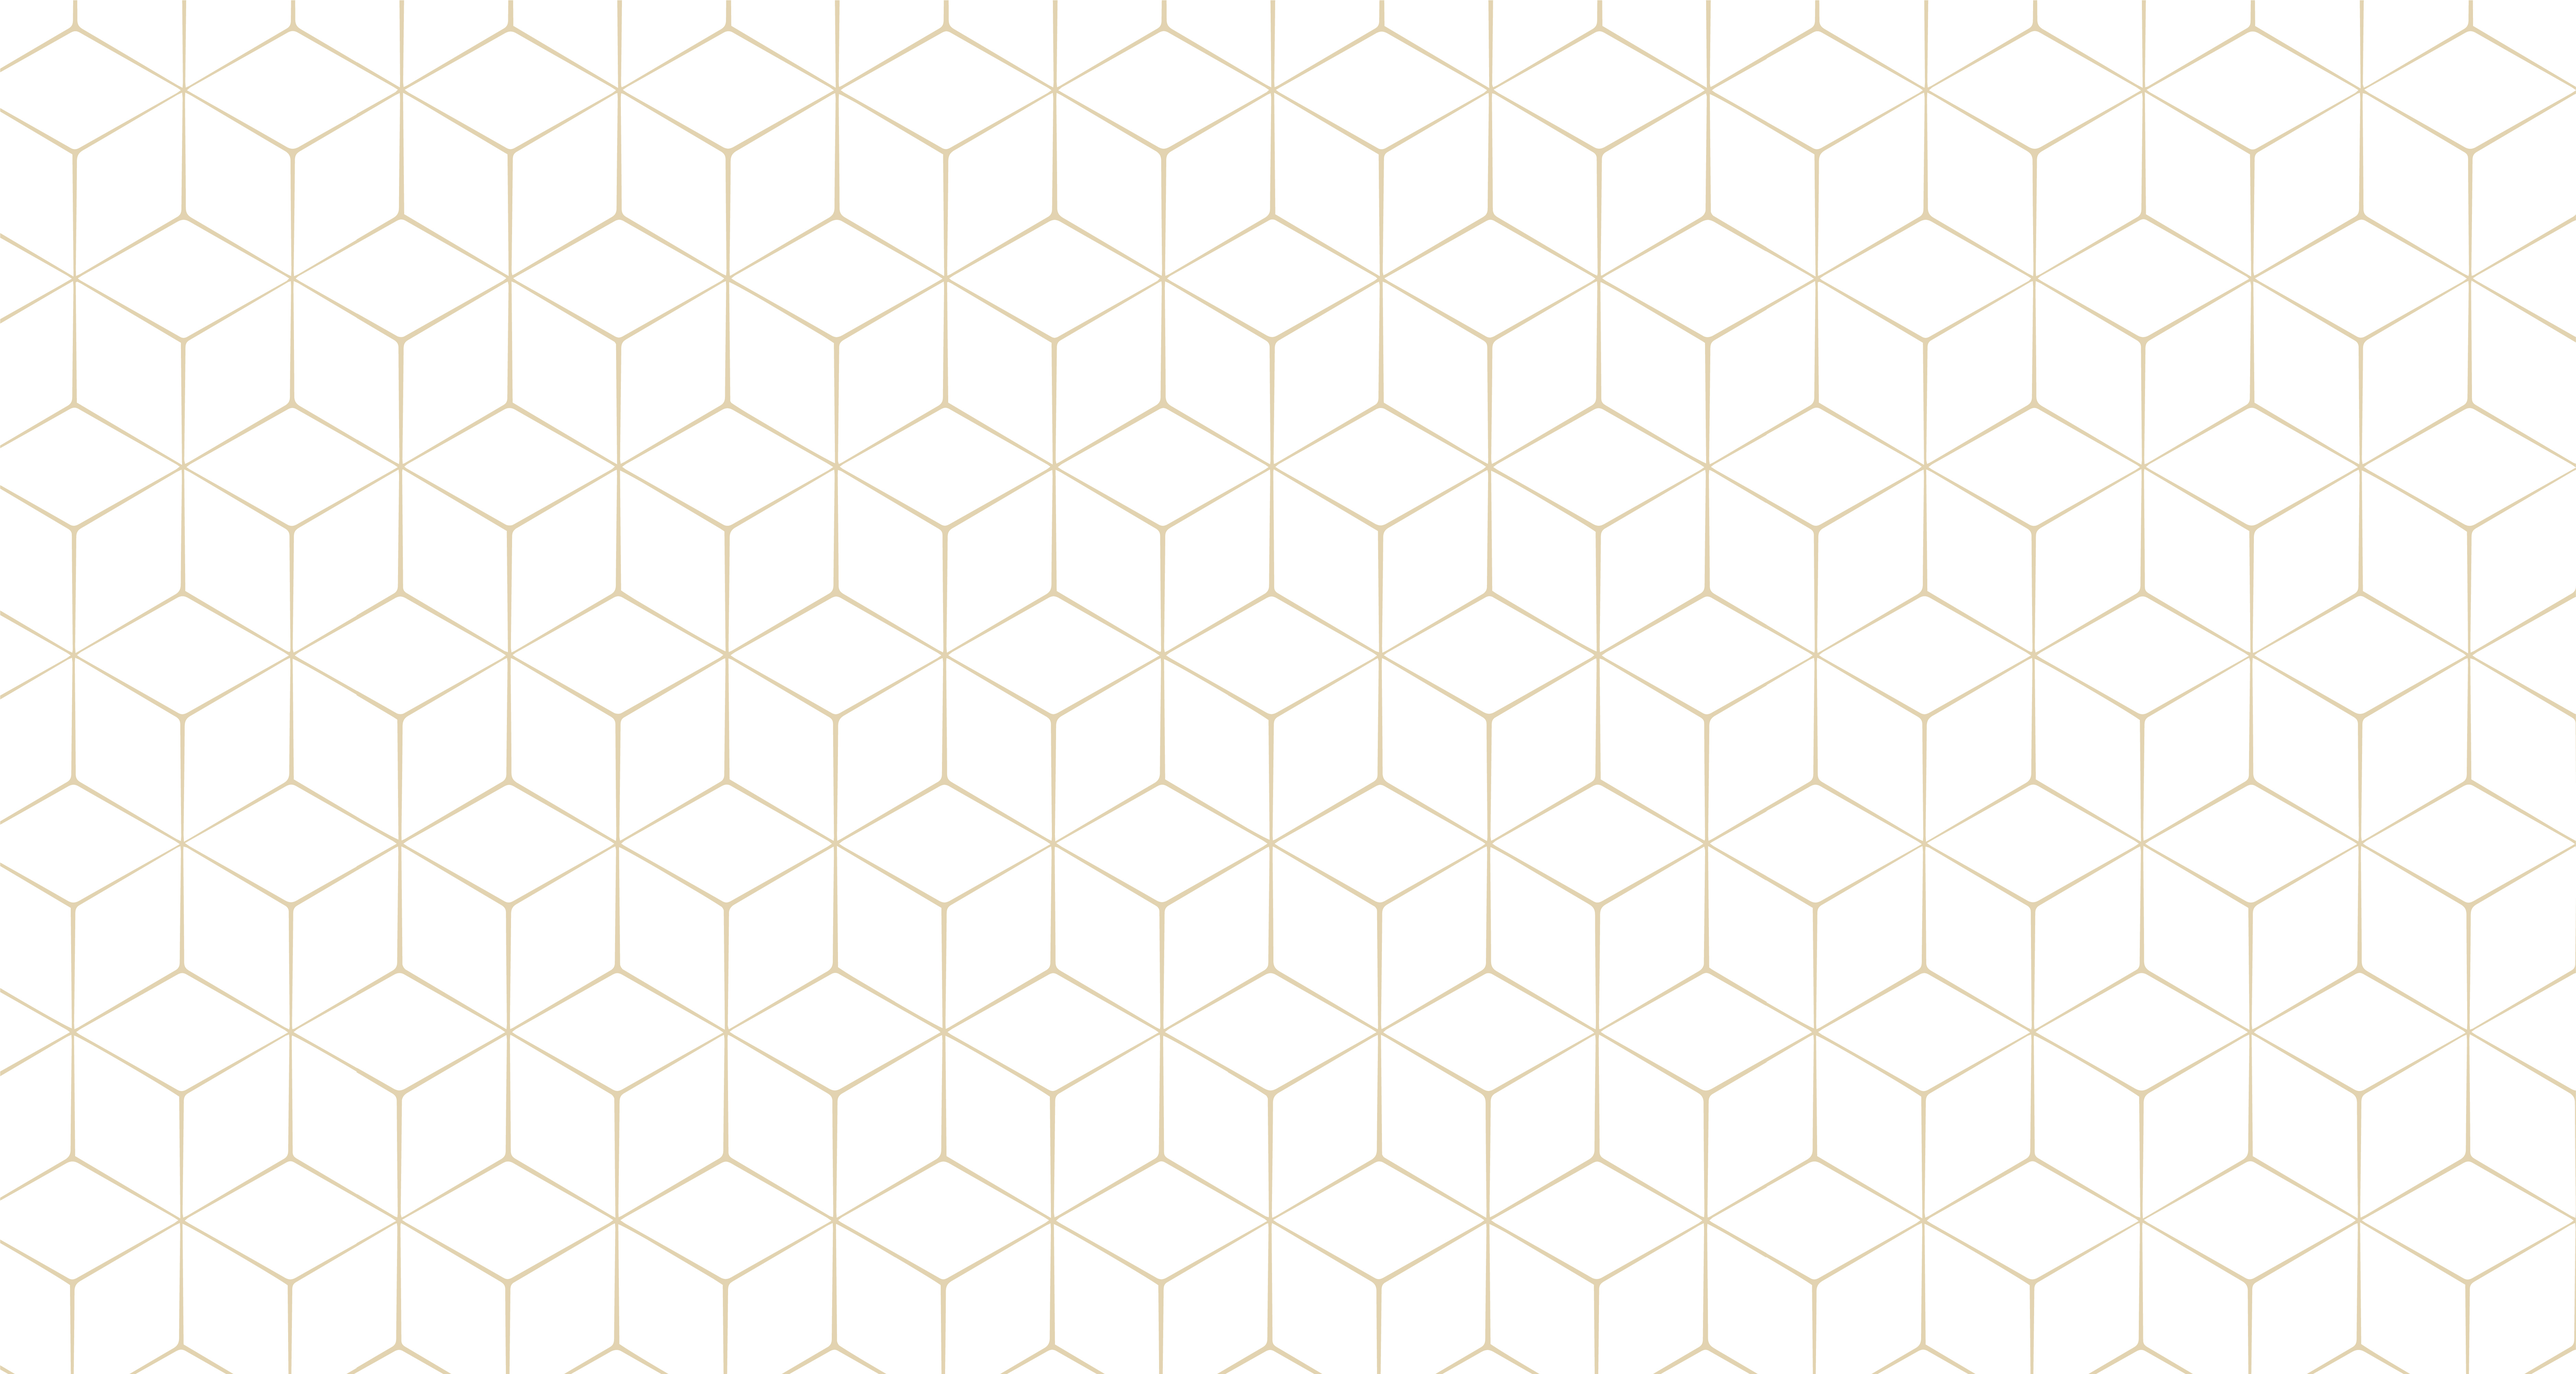
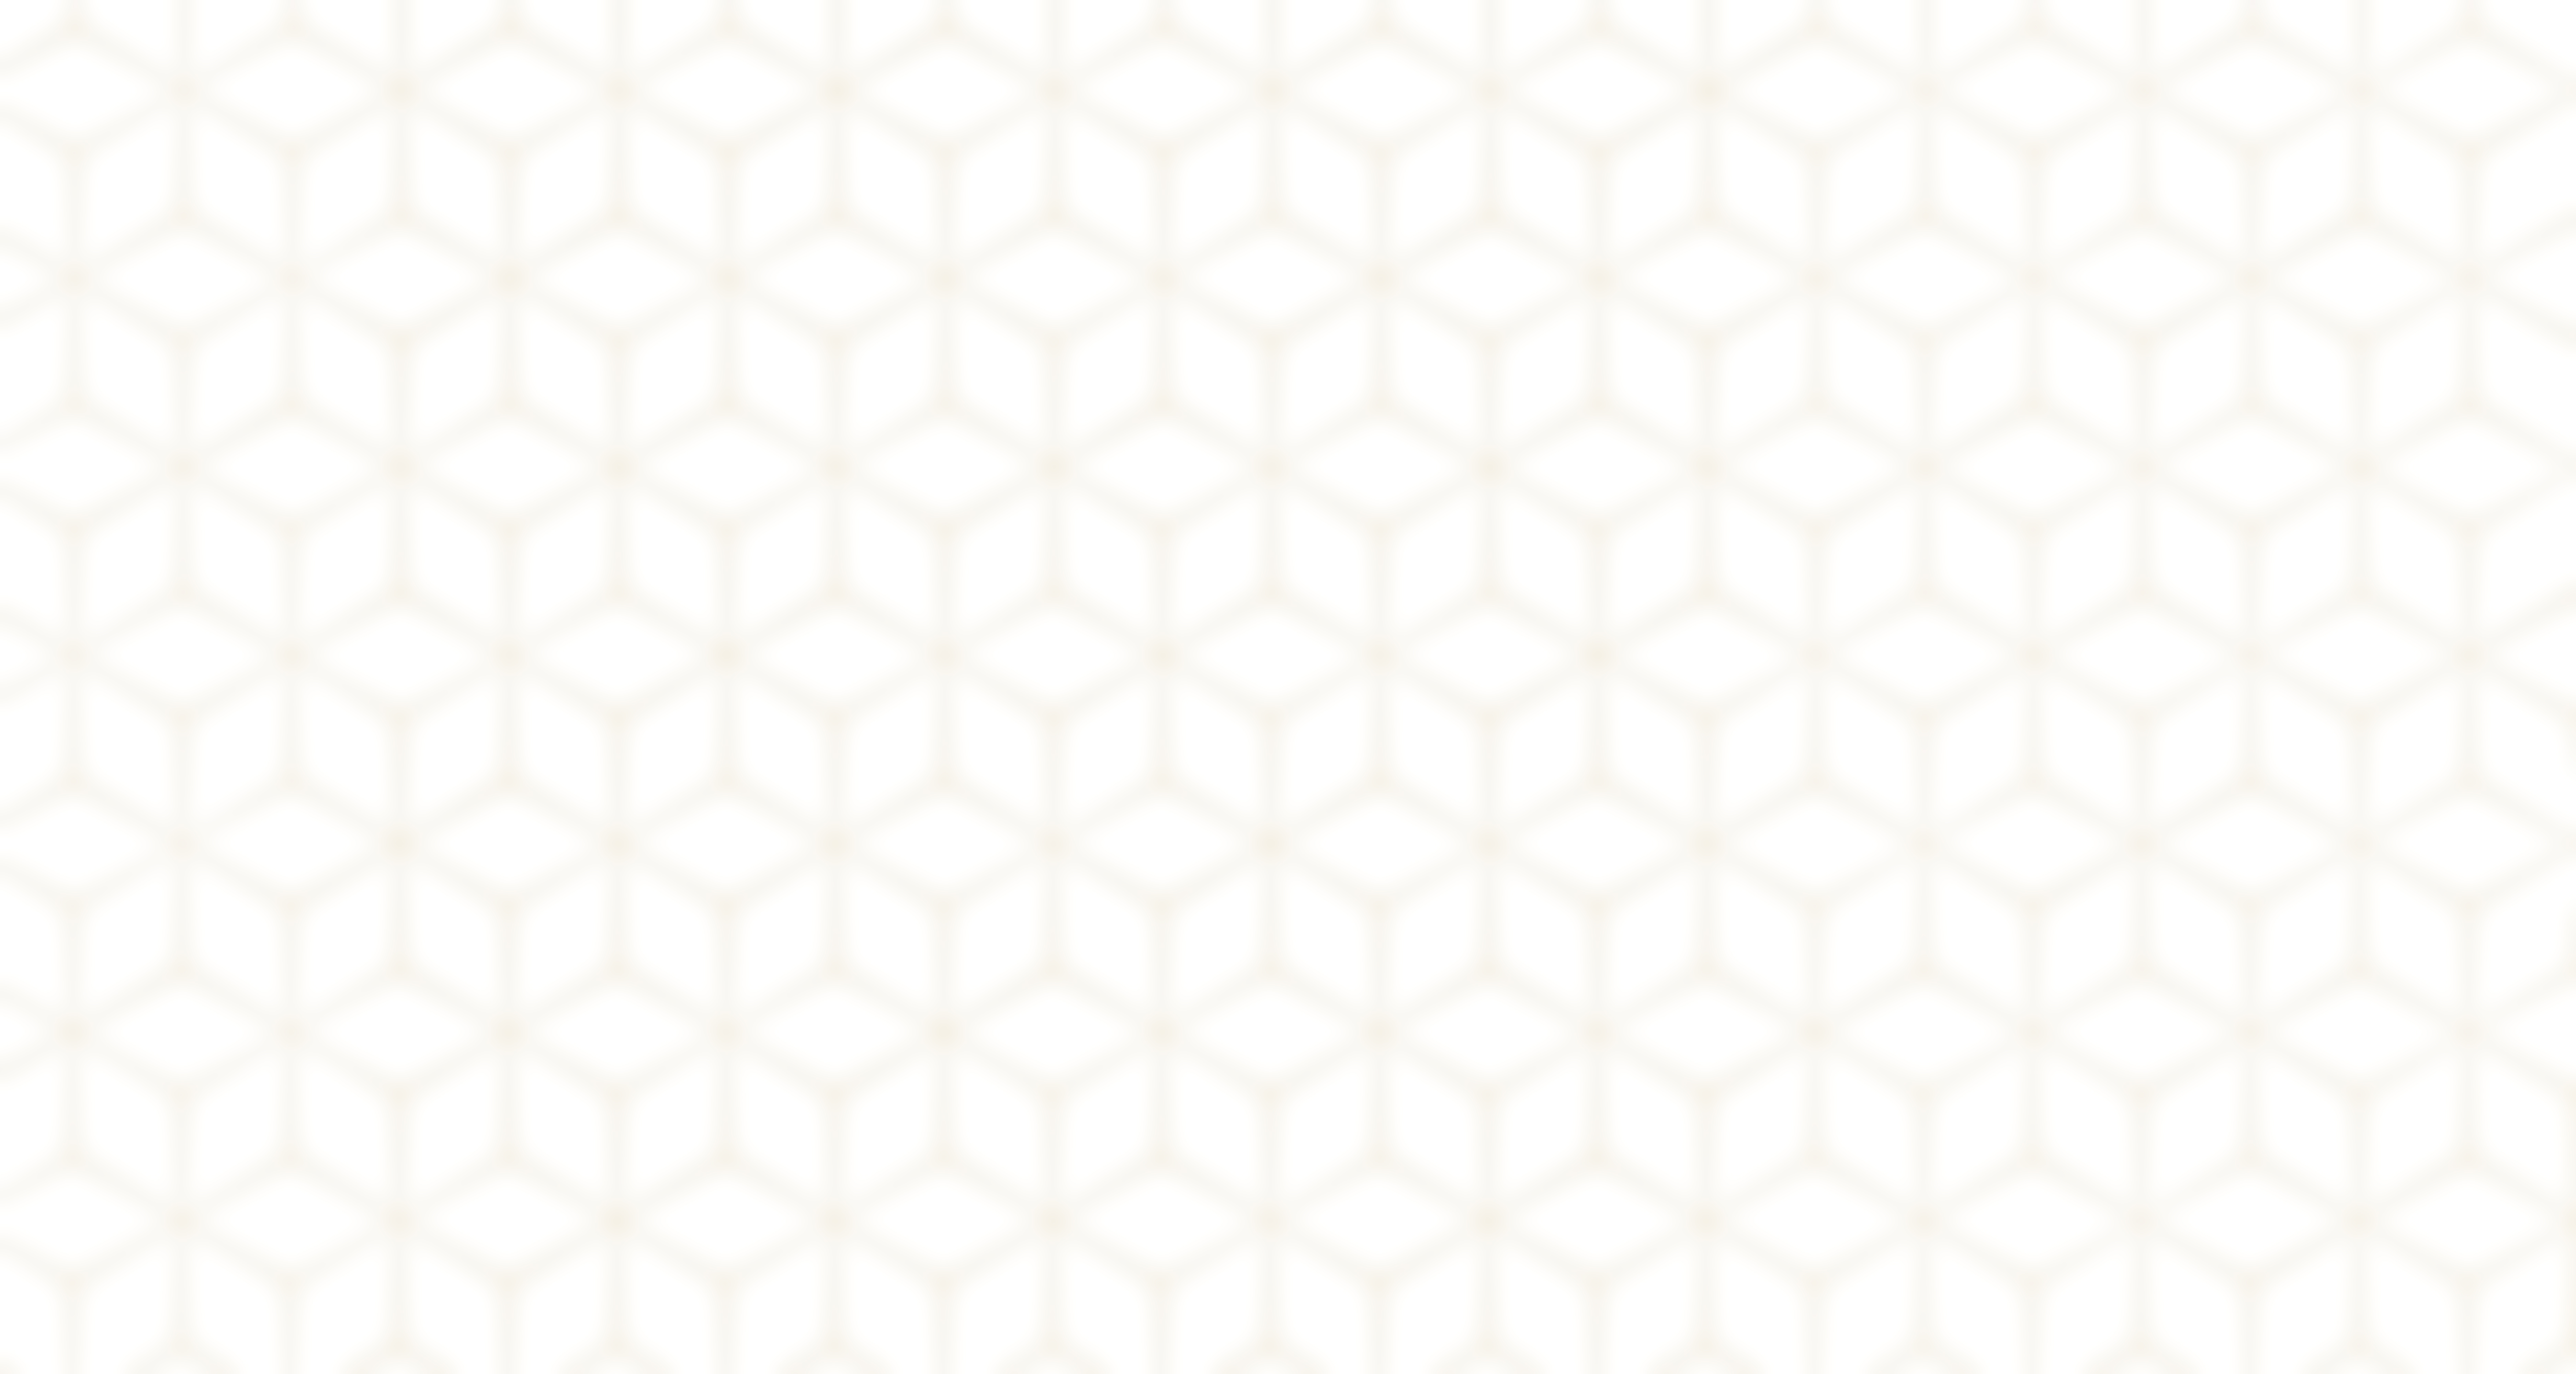
Updates the footer colours and background

diff --git a/css/style.css b/css/style.css
@@ -182,7 +182,7 @@ h2 { font-size: 28px; }
 
 .portfolio_content a#more_projects {
   display: block;
-  margin: 35px auto;
+  margin: 45px auto 55px auto;
   color: #858585;
   width: 300px;
   font-weight: 600;
@@ -190,31 +190,16 @@ h2 { font-size: 28px; }
   text-decoration: none;
 }
 
-.skills_content {
-  height: 00px;
+
+.contact_content {
+  color: #857246;
   background-image: url(../img/pattern.jpg);
   background-position: center;
   background-size: 500px;
   background-repeat: repeat;
-  background-attachment: fixed;
-  filter: blur(2px);
-  -webkit-filter: blur(82x);
-
-}
-
-.contact_content {
-  color: #fff;
-  background-color: #2c3e50;
-  /* background-image: url(../img/pattern.jpg);
-  background-position: center;
-  background-size: 500px;
-  background-repeat: repeat;
-  background-attachment: fixed;
-  filter: blur(2px);
-  -webkit-filter: blur(82x); */
   text-align: center;
   line-height: 30px;
-  padding: 50px 0 0 0;
+  padding: 100px 0 0 0;
   position: relative;
 }
 
@@ -227,24 +212,23 @@ h2 { font-size: 28px; }
 
 .social_media a {
   cursor: pointer;
-  padding: 16.5px;
+  padding: 18px;
   text-align: center;
   margin: 50px 20px;
-  width: 90px;
-  height: 90px;
+  width: 80px;
+  height: 80px;
   border-radius: 50%;
-  border: 5px solid rgba(255,255,255,0.3);
   display: inline-block;
-  color: rgba(255,255,255,0.85);
+  color: rgba(0, 0, 0, 0.55);
 }
 
 .social_media a:hover {
   background-color: #fff;
-  color: #1abc9c;
+  color: #ff503f;
 }
 
 .social_media a:active {
-  color: #2ecc71;
+  color: #ee2512;
 }
 
 .social_media a i {

diff --git a/index.html b/index.html
@@ -38,16 +38,14 @@
   </div>
 
   <div class="portfolio_content" id="portfolio"></div>
-  <!-- <div class="skills_content" id="skills"> -->
 
   </div>
 
   <div class="contact_content" id="contact">
     <h1>Interested in collaborating or hiring?</h1>
-    <h3>I’m always open to discussing development work or partnership opportunities. Contact me through any of these methods:</h3>
+    <h3>I’m always open to discussing development work or partnership opportunities. Contact me through these methods:</h3>
     <div class="social_media">
       <a href="https://github.com/Samanimkr" target="_blank"><i class="fab fa-github-alt fa-2x"></i></a>
-      <a href="https://uk.linkedin.com/in/samani-mukhtar-3a0930160" target="_blank"><i class="fab fa-linkedin fa-2x"></i></a>
       <a href="mailto:Samanimkr@outlook.com"><i class="far fa-envelope fa-2x"></i></a>
     </div>
   </div>
